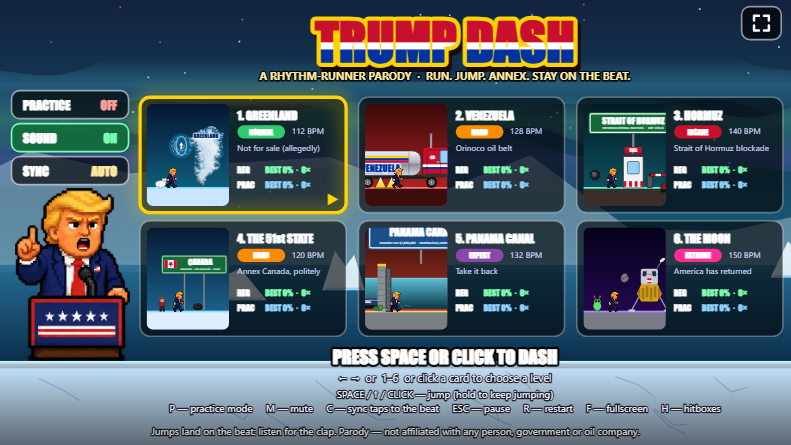
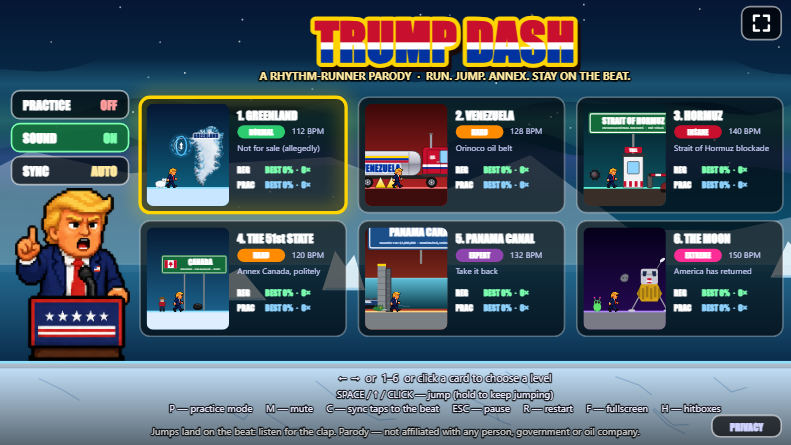
Play Store prep: offline service worker, privacy policy page, asset links template, manifest polish

diff --git a/privacy.html b/privacy.html
@@ -1,0 +1,54 @@
+<!DOCTYPE html>
+<html lang="en">
+<head>
+<meta charset="utf-8">
+<meta name="viewport" content="width=device-width, initial-scale=1">
+<title>Trump Dash Privacy Policy</title>
+<meta name="theme-color" content="#05060f">
+<link rel="icon" type="image/png" sizes="192x192" href="icons/icon-192.png">
+<style>
+  html, body { margin: 0; background: #05060f; color: #e8e8ff; font-family: "Segoe UI", Arial, sans-serif; line-height: 1.55; }
+  main { max-width: 720px; margin: 0 auto; padding: 32px 22px 60px; }
+  h1 { font: bold 40px Impact, "Arial Black", "Segoe UI Black", sans-serif; letter-spacing: 1px; color: #ffd400; margin: 0 0 4px; }
+  .sub { color: #cfd3ff; margin: 0 0 28px; }
+  h2 { font-size: 19px; color: #7dffb0; margin: 28px 0 8px; }
+  p, li { font-size: 16px; }
+  a { color: #8fd3ff; }
+  .back { display: inline-block; margin-top: 36px; padding: 12px 22px; background: #ffd400; color: #1a0a0a; border-radius: 10px; text-decoration: none; font: bold 16px Impact, "Arial Black", sans-serif; letter-spacing: 1px; }
+  .note { border-left: 4px solid #ffd400; padding: 8px 14px; background: rgba(255,212,0,0.08); }
+</style>
+</head>
+<body>
+<main>
+  <h1>PRIVACY POLICY</h1>
+  <p class="sub">Trump Dash, a parody rhythm platformer. Effective September 3, 2026.</p>
+
+  <h2>The short version</h2>
+  <p>Trump Dash has no accounts, no sign-in, no ads and no purchases. It does not ask for your name, email, location, contacts or any other personal information, and it does not sell or share data with anyone.</p>
+
+  <h2>What the game stores on your device</h2>
+  <p>Your progress and settings are kept in your browser's local storage on your own device only: best percentage and number of clears per level for regular and practice mode, and the practice, sound and sync-offset settings. Nothing in that storage leaves your device, and clearing your browser data removes it.</p>
+
+  <h2>Visit counting</h2>
+  <p>The site uses <a href="https://www.cloudflare.com/web-analytics/">Cloudflare Web Analytics</a> to count visits. It records page views with the referring page, country, browser type and page performance timings. It does not use cookies or local storage, does not fingerprint devices and does not track you across other sites. Cloudflare processes this data under its own <a href="https://www.cloudflare.com/privacypolicy/">privacy policy</a>.</p>
+
+  <h2>Hosting</h2>
+  <p>The game is served by Vercel. Like any web host, Vercel's servers receive your IP address and browser details with each request and may keep short-lived logs for security and operations, under <a href="https://vercel.com/legal/privacy-policy">Vercel's privacy policy</a>.</p>
+
+  <h2>Installed and Android versions</h2>
+  <p>If you add the game to your home screen or install it from an app store, you get the same site inside an app shell. It requests no device permissions and collects nothing beyond what is described above. The app may cache the game's files on your device so it can start without a connection.</p>
+
+  <h2>Children</h2>
+  <p>The game is not directed at children under 13 and collects no personal information from anyone.</p>
+
+  <h2>Changes</h2>
+  <p>If this policy changes, the new version will be published at this address with a new effective date.</p>
+
+  <h2>Contact</h2>
+  <p class="note">Questions about this policy: add your contact email address here before submitting the app to Google Play.</p>
+
+  <p>Trump Dash is satire. It is not affiliated with any person, government or oil company.</p>
+  <a class="back" href="./">BACK TO THE GAME</a>
+</main>
+</body>
+</html>

diff --git a/tools/shoot.js b/tools/shoot.js
@@ -119,6 +119,15 @@ const PLANS = {
     ['mr_back', (s) => s.state === 'paused', { rotate: 'landscape' }],
     ['mr_landscape', (s) => s.state === 'paused', { check: "({rotate: getComputedStyle(document.getElementById('rotate')).display, canvas: document.getElementById('game').getBoundingClientRect().toJSON()})" }],
   ], timeout: 30000 },
+  // ---- offline: `swinstall` registers the service worker and waits for the precache (keep the same
+  // PORT so the Chrome profile persists), then stop the web server and run `offline` ----
+  swinstall: { url: '?sw=1&noaudio=1&mute=1&debug=1', shots: [
+    ['sw_ready', (s) => s.state === 'menu', { check: "navigator.serviceWorker.ready.then((r) => 'sw:' + (r.active ? r.active.state : 'none'))" }],
+    ['sw_cached', (s) => s.state === 'menu', { check: "new Promise((res) => { const t = setInterval(async () => { const c = await caches.open('trumpdash-v1'); const k = await c.keys(); if (k.length >= 25) { clearInterval(t); res('cached:' + k.length); } }, 200); setTimeout(() => res('timeout'), 25000); })" }],
+  ], timeout: 40000 },
+  offline: { url: '?noaudio=1&mute=1&debug=1', shots: [
+    ['off_menu', (s) => s.state === 'menu', { check: "({controlled: !!navigator.serviceWorker.controller, online: navigator.onLine, gameJsViaWorker: performance.getEntriesByType('resource').filter((e) => /game\\.js/.test(e.name)).map((e) => e.workerStart > 0)})" }],
+  ], timeout: 30000 },
   // ---- sync calibration: open it from the menu, fire 14 taps 80 ms late via synthetic key events ----
   calib: { url: '?noaudio=1&mute=1&debug=1&practice=0', shots: [
     ['cal_menu', (s) => s.state === 'menu', { tap: [85, 207] }],
@@ -197,7 +206,7 @@ const PLANS = {
 class CDP {
   constructor(ws) { this.ws = ws; this.id = 0; this.pending = new Map(); ws.onmessage = (ev) => { const m = JSON.parse(ev.data); if (m.id && this.pending.has(m.id)) { this.pending.get(m.id)(m); this.pending.delete(m.id); } }; }
   send(method, params) { const id = ++this.id; this.ws.send(JSON.stringify({ id, method, params: params || {} })); return new Promise((res) => this.pending.set(id, res)); }
-  async eval(expr) { const r = await this.send('Runtime.evaluate', { expression: expr, returnByValue: true }); return r.result && r.result.result ? r.result.result.value : undefined; }
+  async eval(expr) { const r = await this.send('Runtime.evaluate', { expression: expr, returnByValue: true, awaitPromise: true }); return r.result && r.result.result ? r.result.result.value : undefined; }
 }
 
 (async () => {

diff --git a/sw.js b/sw.js
@@ -1,0 +1,46 @@
+// Trump Dash service worker: network first, cache as the fallback.
+// Online players always get the latest deploy, exactly as before (the versioned loader in index.html
+// keeps doing its job); the cached copy is only used when the network fails, which is what lets the
+// installed app (Add to Home Screen / the Play Store shell) start without a connection.
+// Bump CACHE when PRECACHE changes so stale entries are dropped on activate.
+const CACHE = 'trumpdash-v1';
+const PRECACHE = [
+  './', 'index.html', 'style.css', 'manifest.json', 'privacy.html',
+  'src/constants.js', 'src/sprites.js', 'src/level.js',
+  'src/levels/greenland.js', 'src/levels/venezuela.js', 'src/levels/hormuz.js', 'src/levels/canada.js', 'src/levels/panama.js', 'src/levels/moon.js',
+  'src/physics.js', 'src/audio.js', 'src/render.js', 'src/game.js',
+  'resources/sprite_sheet.png', 'resources/greenland_map.png', 'resources/florida_map.png',
+  'icons/icon-192.png', 'icons/icon-512.png', 'icons/icon-512-maskable.png', 'icons/apple-touch-icon.png',
+];
+
+self.addEventListener('install', (e) => {
+  e.waitUntil(caches.open(CACHE).then((c) => c.addAll(PRECACHE)).then(() => self.skipWaiting()));
+});
+
+self.addEventListener('activate', (e) => {
+  e.waitUntil(
+    caches.keys()
+      .then((keys) => Promise.all(keys.filter((k) => k !== CACHE).map((k) => caches.delete(k))))
+      .then(() => self.clients.claim())
+  );
+});
+
+// Cache entries are keyed without the ?v= query string, so any version of a file satisfies an
+// offline request for it (ignoreSearch on match).
+function keyFor(req) { const u = new URL(req.url); u.search = ''; return u.toString(); }
+
+self.addEventListener('fetch', (e) => {
+  const req = e.request;
+  if (req.method !== 'GET' || new URL(req.url).origin !== self.location.origin) return; // analytics etc. go straight out
+  e.respondWith(
+    fetch(req)
+      .then((res) => {
+        if (res.ok && res.type === 'basic') {
+          const copy = res.clone();
+          caches.open(CACHE).then((c) => c.put(keyFor(req), copy));
+        }
+        return res;
+      })
+      .catch(() => caches.match(req, { ignoreSearch: true }).then((hit) => hit || (req.mode === 'navigate' ? caches.match('./') : undefined)))
+  );
+});

diff --git a/src/render.js b/src/render.js
@@ -1923,6 +1923,7 @@
       b.push({ id: 'mute', x: 14, y: 150, w: 142, h: 34, label: 'SOUND', value: G.muted ? 'OFF' : 'ON', on: !G.muted });
       b.push({ id: 'sync', x: 14, y: 190, w: 142, h: 34, label: 'SYNC', value: G.offsetMs ? `${G.offsetMs > 0 ? '+' : ''}${G.offsetMs} ms` : 'AUTO', neutral: true });
       if (G.fsAvailable) b.push({ id: 'fullscreen', x: W - 60, y: 8, w: 48, h: 40, icon: G.fullscreen ? 'exitfs' : 'fs' });
+      b.push({ id: 'privacy', x: W - 96, y: H - 36, w: 84, h: 26, label: 'PRIVACY', small: true });
     } else if (s === 'playing' || s === 'dead') {
       b.push({ id: 'pause', x: W - 62, y: 8, w: 50, h: 40, icon: 'pause' });
     } else if (s === 'paused') {
@@ -1963,7 +1964,7 @@
       if (b.value != null) {
         text(ctx, b.label, b.x + 14, cy + 1, `bold 15px ${TITLE_FONT}`, '#fff', 'left');
         text(ctx, b.value, b.x + b.w - 14, cy + 1, `bold 15px ${TITLE_FONT}`, b.neutral ? '#ffe9a0' : b.on ? '#7dffb0' : '#ff9d9d', 'right');
-      } else text(ctx, b.label, cx, cy + 1, `bold 16px ${TITLE_FONT}`, b.primary ? '#1a0a0a' : '#fff', 'center');
+      } else text(ctx, b.label, cx, cy + 1, `bold ${b.small ? 12 : 16}px ${TITLE_FONT}`, b.primary ? '#1a0a0a' : b.small ? '#cfd3ff' : '#fff', 'center');
     }
   }
   function drawOverlayPanel(ctx, x, y, w, h) {

diff --git a/index.html b/index.html
@@ -24,7 +24,7 @@
 <script>
   // Cache busting. Bump TD_VERSION whenever a JS/CSS file changes so browsers never mix old and
   // new modules. On localhost every load gets a fresh stamp so local edits always show up.
-  window.TD_VERSION = '11';
+  window.TD_VERSION = '12';
   (function () {
     var local = /^(localhost|127\.0\.0\.1|\[::1\])$/.test(location.hostname);
     var v = local ? String(Date.now()) : window.TD_VERSION;
@@ -44,6 +44,13 @@
         document.body.appendChild(s);
       });
     });
+    // Offline support for the installed app. sw.js is network-first, so online players always get the
+    // latest deploy. On localhost it is only registered with ?sw=1, and ?nosw=1 removes it anywhere.
+    if ('serviceWorker' in navigator) {
+      var q = location.search;
+      if (/[?&]nosw=1/.test(q)) navigator.serviceWorker.getRegistrations().then(function (rs) { rs.forEach(function (r) { r.unregister(); }); });
+      else if (!local || /[?&]sw=1/.test(q)) window.addEventListener('load', function () { navigator.serviceWorker.register('sw.js').catch(function () {}); });
+    }
   })();
 </script>
 </head>

diff --git a/src/game.js b/src/game.js
@@ -200,6 +200,7 @@
       case 'mute': toggleMute(); break;
       case 'quit': case 'menu': if (G.state === 'paused' || G.state === 'complete') quitToMenu(); break;
       case 'fullscreen': toggleFullscreen(); break;
+      case 'privacy': location.assign('privacy.html'); break;
     }
   }
 

diff --git a/README.md b/README.md
@@ -97,6 +97,20 @@ browser reports for the audio device) is stored as the sync offset. Every song i
 that much earlier, so a tap that feels on the beat lands on the physics beat. Recalibrate after
 switching headphones.
 
+### Offline and app-store shell
+
+`sw.js` is a network-first service worker: online it changes nothing (every load still fetches the
+latest deploy), and when the network is gone it serves the last cached copy of the whole game, so
+the home-screen and Play Store versions start without a connection. It registers itself on the
+live site; on localhost only with `?sw=1`, and `?nosw=1` unregisters it anywhere. Bump `CACHE` in
+`sw.js` if the precache list changes.
+
+`privacy.html` is the privacy policy Google Play asks for, linked from the PRIVACY button on the
+menu. Fill in the contact line before submitting. `.well-known/assetlinks.json` is the Digital
+Asset Links file that lets the Android shell own the domain (no URL bar); replace the fingerprint
+placeholder with the SHA-256 of the Play App Signing key that Bubblewrap or PWABuilder generates,
+and keep `package_name` in step with the package you build.
+
 ### Rendering
 
 The canvas keeps its 960x540 coordinate system but its backing store is sized to the CSS size
@@ -145,7 +159,9 @@ the frame rate stutters.
   calibration with synthetic taps) and, with `MOBILE=landscape`, `mobile_menu` and `mobile_rotate`,
   which emulate a phone with touch and walk the touch UI. `PERF_LEVEL=<id> THROTTLE=4 node
   tools/shoot.js perf` logs the JS time spent in draw() and the achieved frame rate under a 4x CPU
-  throttle (`PERF_SCALE=1` pins the resolution). Set `PORT=` to run several at once.
+  throttle (`PERF_SCALE=1` pins the resolution). `swinstall` registers the service worker and waits
+  for the precache; stop the web server and run `offline` on the same `PORT` to prove the game
+  loads with no network. Set `PORT=` to run several at once.
 * `node tools/make_icons.js` regenerates `icons/` (home-screen icons and the social preview) from the
   running game.
 
@@ -171,6 +187,9 @@ src/audio.js             instruments, scheduler and sound effects
 src/render.js            canvas rendering, HUD, level-select menu, truck / toll-booth / map / border-sign / canal-gate / moon-plaque endings
 src/game.js              game loop, input, state machine, ending cutscenes
 manifest.json            home-screen install (landscape, fullscreen)
+sw.js                    network-first service worker (offline fallback)
+privacy.html             privacy policy (linked from the menu)
+.well-known/assetlinks.json  Android app <-> domain link for the Play Store shell
 icons/                   app icons + social preview (generated)
 tools/verify_level.js    completability + timing-window verifier
 tools/shoot.js           headless screenshot harness (desktop or emulated phone)
